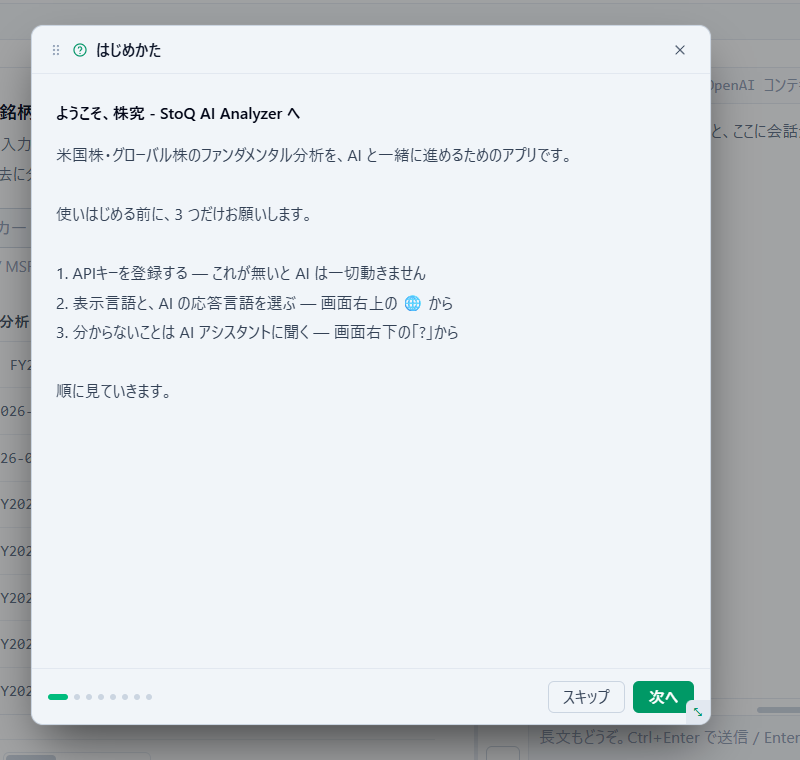
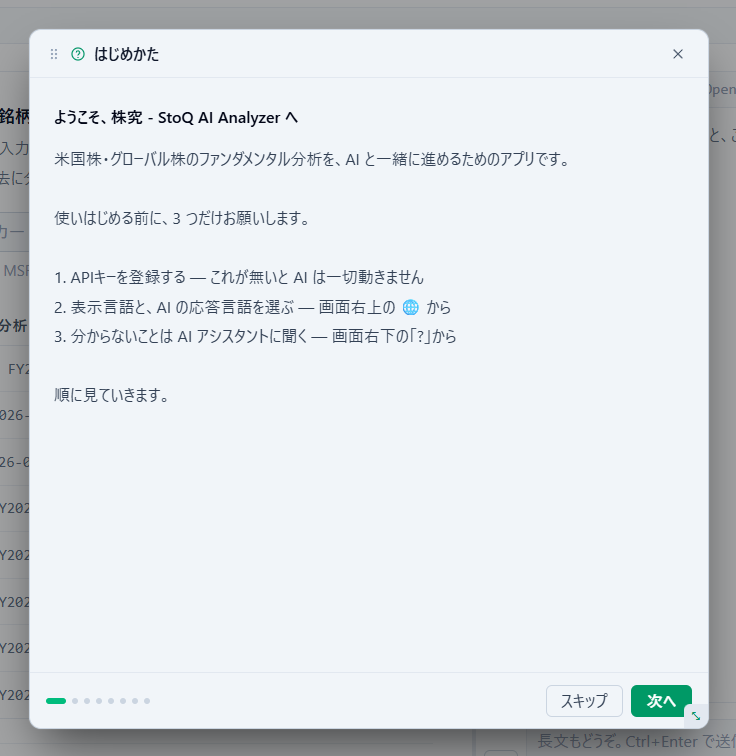
fix: キー書式を「V＋数字」に／写真をクリックで拡大／赤枠と中央寄せ
・世代の番号は上がる。V1- と書き切ると v2 の購入者に合わない案内になる
・画面写真は本文幅では細部が読めない。クリックで原寸を出す（部品は足さない）
・ヘルプメニューと「はじめかた」を赤枠で囲む
・チュートリアルのモーダルが中央に来ていなかった（左 30px / 右 90px）。
  余白を揃えて切り直した

diff --git a/after-purchase.html b/after-purchase.html
@@ -131,13 +131,20 @@
             </li>
             <li class="flex gap-2.5">
               <span class="text-emerald-400" aria-hidden="true">&#9679;</span>
+              <!--
+                **世代の番号は上がる。** v2 のキーは `V2-` で始まるので、
+                `V1-` と書き切ると、次の世代を買った人には合わない案内になる。
+              -->
               <span data-en>
                 <strong class="text-slate-100">The licence key</strong> &mdash; a string starting with
-                <code class="text-emerald-300">V1-</code>. You enter it once, inside the app.
+                <code class="text-emerald-300">V</code> and a number
+                (<code class="text-emerald-300">V1-</code> for the current version). You enter it
+                once, inside the app.
               </span>
               <span data-ja>
                 <strong class="text-slate-100">ライセンスキー</strong> ——
-                <code class="text-emerald-300">V1-</code> で始まる文字列です。アプリ内で一度だけ入力します。
+                <code class="text-emerald-300">V</code>＋数字で始まる文字列です
+                （現行版は <code class="text-emerald-300">V1-</code>）。アプリ内で一度だけ入力します。
               </span>
             </li>
           </ul>
@@ -383,12 +390,13 @@
               <span class="text-slate-500">3.</span>
               <span data-en>
                 Paste the key from the e-mail
-                (<code class="text-emerald-300">V1-XXXXXXXX-XXXX-XXXX-XXXX-XXXXXXXXXXXX</code>).
+                (<code class="text-emerald-300">V1-XXXXXXXX-XXXX-XXXX-XXXX-XXXXXXXXXXXX</code> &mdash;
+                the leading number is the version generation).
               </span>
               <span data-ja>
                 メールに記載のキー
-                （<code class="text-emerald-300">V1-XXXXXXXX-XXXX-XXXX-XXXX-XXXXXXXXXXXX</code>）を
-                コピー＆ペーストで入力します。
+                （<code class="text-emerald-300">V1-XXXXXXXX-XXXX-XXXX-XXXX-XXXXXXXXXXXX</code>。
+                先頭の数字は世代を表します）をコピー＆ペーストで入力します。
               </span>
             </li>
             <li class="flex gap-2.5">
@@ -507,11 +515,13 @@
                 <li class="flex gap-2.5">
                   <span class="text-slate-600" aria-hidden="true">&#8226;</span>
                   <span data-en>
-                    The key starts with <code class="text-emerald-300">V1-</code>. Make sure that part
-                    was included in the selection.
+                    The key starts with <code class="text-emerald-300">V</code> and a number
+                    (<code class="text-emerald-300">V1-</code>). Make sure that part was included in
+                    the selection.
                   </span>
                   <span data-ja>
-                    キーは <code class="text-emerald-300">V1-</code> から始まります。
+                    キーは <code class="text-emerald-300">V</code>＋数字
+                    （<code class="text-emerald-300">V1-</code> など）から始まります。
                     その部分まで選択できているかご確認ください。
                   </span>
                 </li>
@@ -639,6 +649,67 @@
         </div>
       </div>
     </footer>
+
+    <!--
+      **画面写真は、そのままでは細部が読めない。**
+
+      本文の幅に収めると、メールの文字もウィザードのボタンも小さくなる。
+      「どこを押すのか」を確かめたい人が、拡大する手段を持てるようにする。
+
+      追加の部品は入れない——数十行で足りるものに読み込みを増やすと、
+      その分ページが重くなり、切れたときに写真ごと開けなくなる。
+    -->
+    <div
+      id="zoom"
+      class="fixed inset-0 z-50 hidden cursor-zoom-out items-center justify-center bg-slate-950/90 p-4 backdrop-blur-sm"
+    >
+      <img id="zoom-img" src="" alt="" class="max-h-full max-w-full rounded-lg shadow-2xl" />
+      <button
+        type="button"
+        id="zoom-close"
+        class="absolute right-4 top-4 rounded-md border border-slate-700 bg-slate-900/80 px-3 py-1.5 text-sm text-slate-200 transition-colors hover:border-slate-500"
+        aria-label="Close"
+      >
+        &times;
+      </button>
+    </div>
+
+    <script>
+      (function () {
+        var box = document.getElementById("zoom");
+        var img = document.getElementById("zoom-img");
+
+        function open(src, alt) {
+          img.src = src;
+          img.alt = alt || "";
+          box.classList.remove("hidden");
+          box.classList.add("flex");
+        }
+        function close() {
+          box.classList.add("hidden");
+          box.classList.remove("flex");
+          // **src を空に戻す。** 大きい画像を掴んだままにしない
+          img.src = "";
+        }
+
+        /*
+         * **押せることを見た目で示す。** 拡大できると分からなければ、
+         * 誰も押さない。カーソルと、うっすらした枠の変化で伝える。
+         */
+        var shots = document.querySelectorAll("main img");
+        Array.prototype.forEach.call(shots, function (el) {
+          el.classList.add("cursor-zoom-in", "transition-opacity", "hover:opacity-90");
+          el.addEventListener("click", function () {
+            open(el.getAttribute("src"), el.getAttribute("alt"));
+          });
+        });
+
+        box.addEventListener("click", close);
+        document.addEventListener("keydown", function (e) {
+          if (e.key === "Escape") close();
+        });
+      })();
+    </script>
 
     <script>
       (function () {
